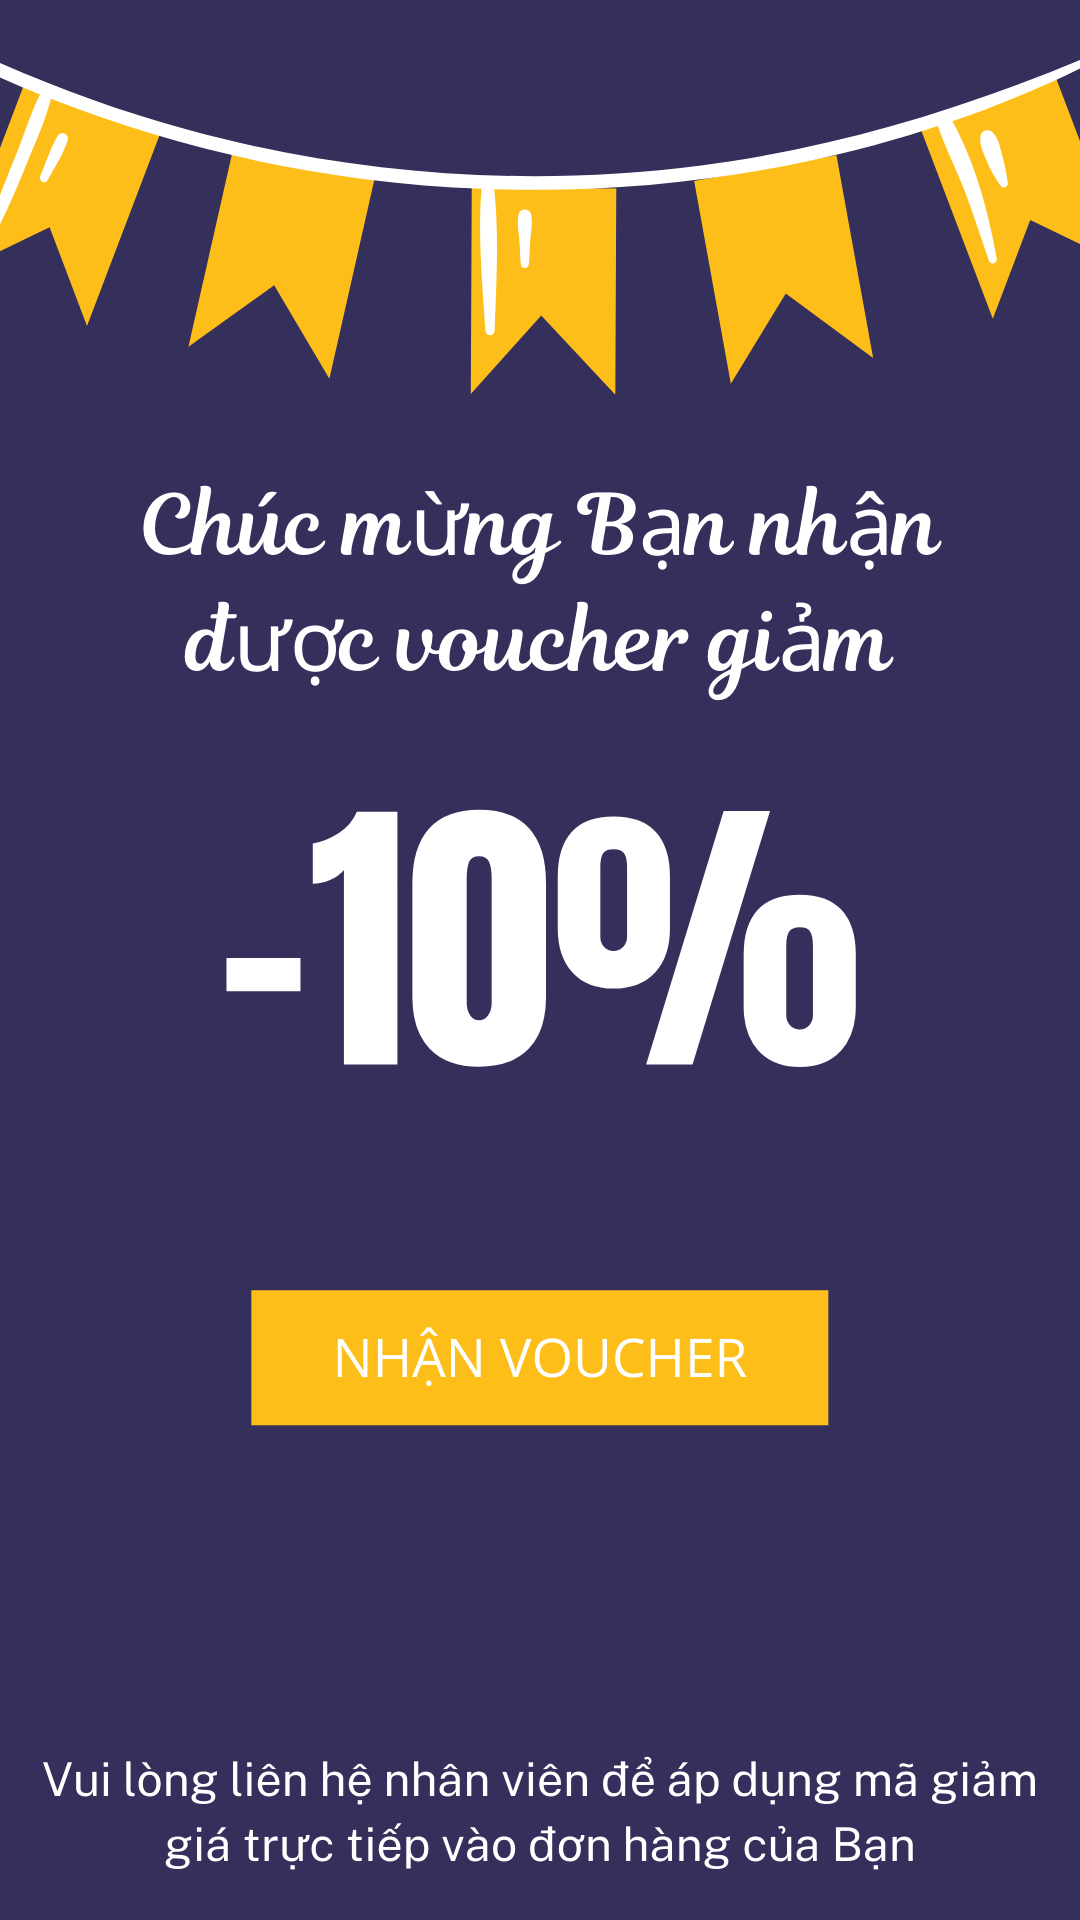
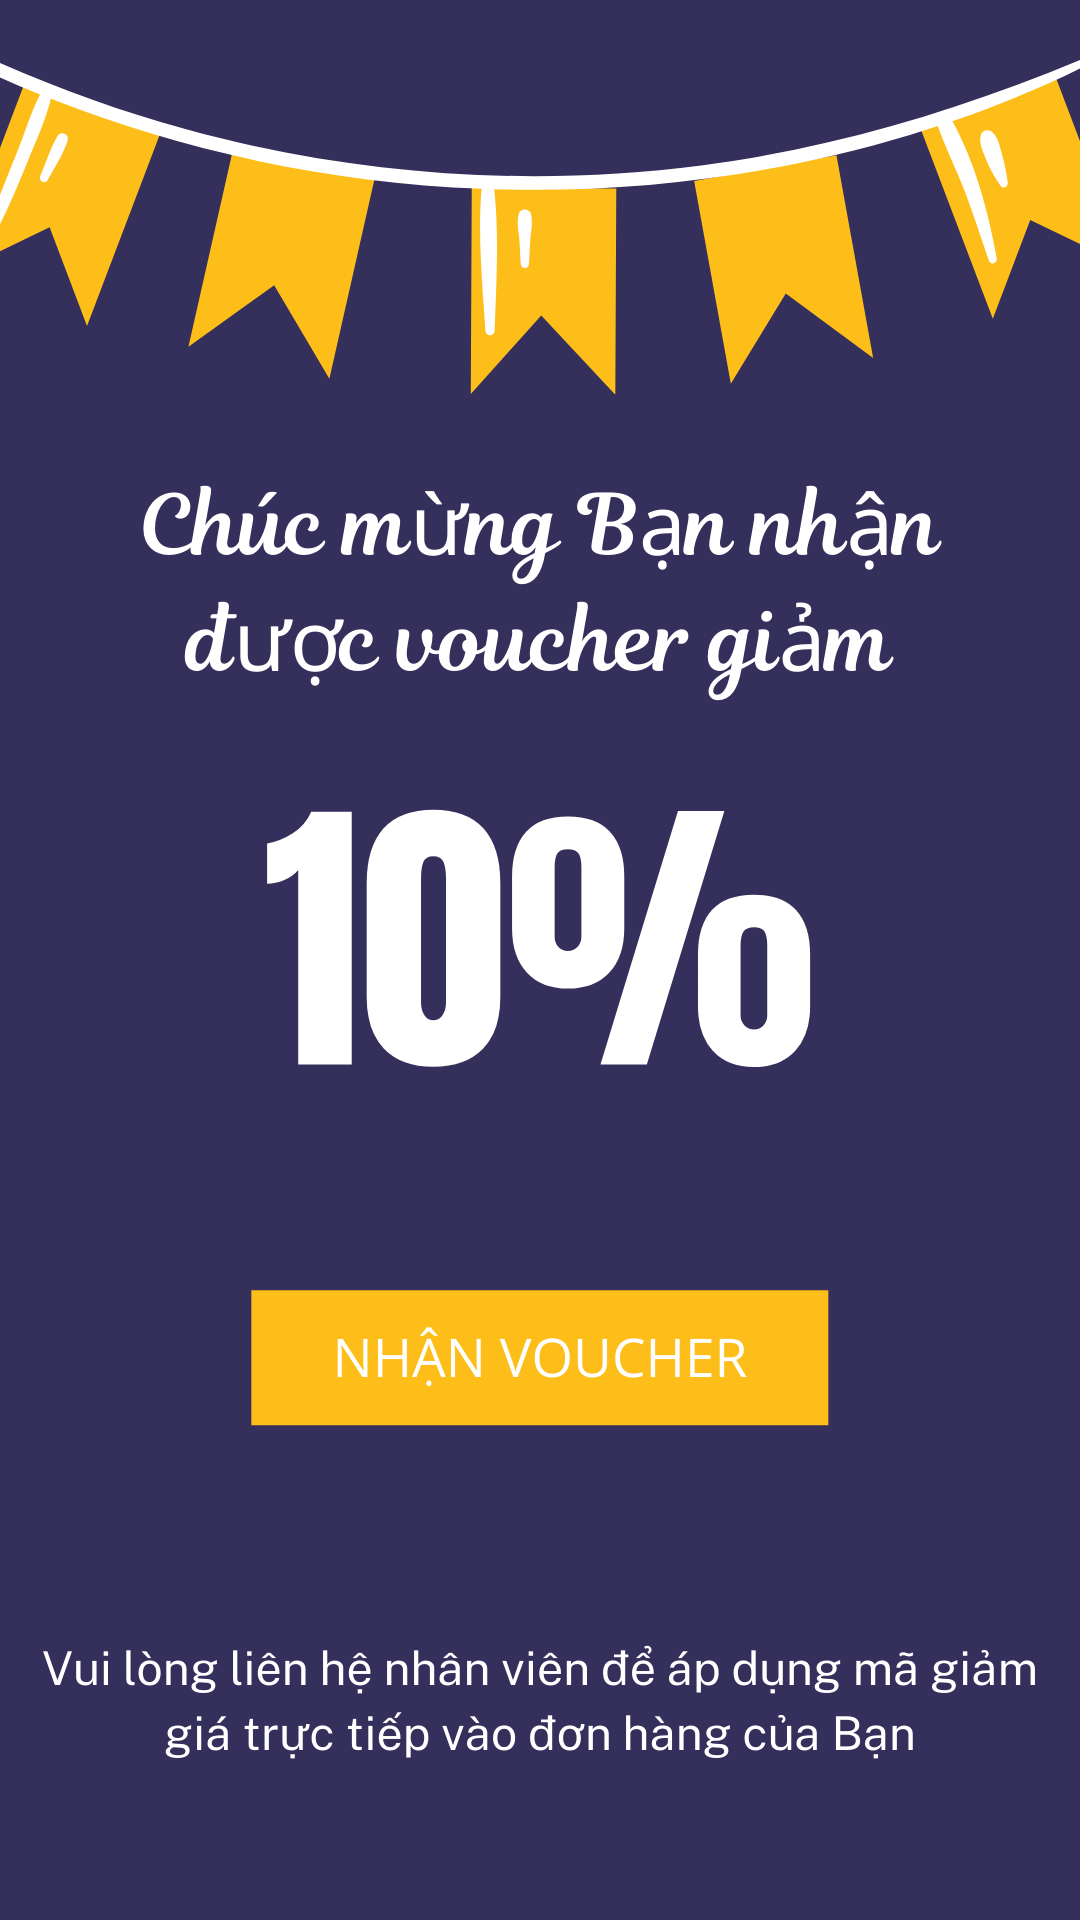
update

Changed region(s): [[0.0306, 0.8438, 0.9472, 0.9688], [0.2139, 0.4062, 0.7944, 0.5625]]

diff --git a/rating.html b/rating.html
@@ -86,7 +86,6 @@
 					width: 100%;
 					height: 50%;
 					left: 0%;
-					border: 1px solid;
 				}
 					
 		</style>
@@ -99,7 +98,7 @@
 		  
 		  <div class="clearfix">
 			<p><b>THỜI TRANG CỦA PHÁI ĐẸP - LEVA LUXURY</b></p>
-			<p>Hoàn tất 2 bước để nhận ngay <b>voucher giảm giá 5%</b></p>
+			<p>Hoàn tất 2 bước để nhận ngay <b>voucher giảm giá 10%</b></p>
 		  </div>
 		  
 		  <div class="i-action clearfix" id="id-fb-mobile-android">
@@ -200,7 +199,7 @@
 	
 	function ShowDialogFinish(){
 		if(isFinishFB && isFinishGoogle){
-			//alert("Chúc mừng Bạn đã nhận được voucher giảm giá 5%. Vui lòng liên hệ nhân viên để áp dụng mã giảm giá trực tiếp vào đơn hàng của Bạn");
+			//alert("Chúc mừng Bạn đã nhận được voucher giảm giá 10%. Vui lòng liên hệ nhân viên để áp dụng mã giảm giá trực tiếp vào đơn hàng của Bạn");
 			document.getElementById("id-popup-finish").classList.remove("hide-element");
 			document.getElementById("id-popup-finish").classList.add("show-element");
 		}
